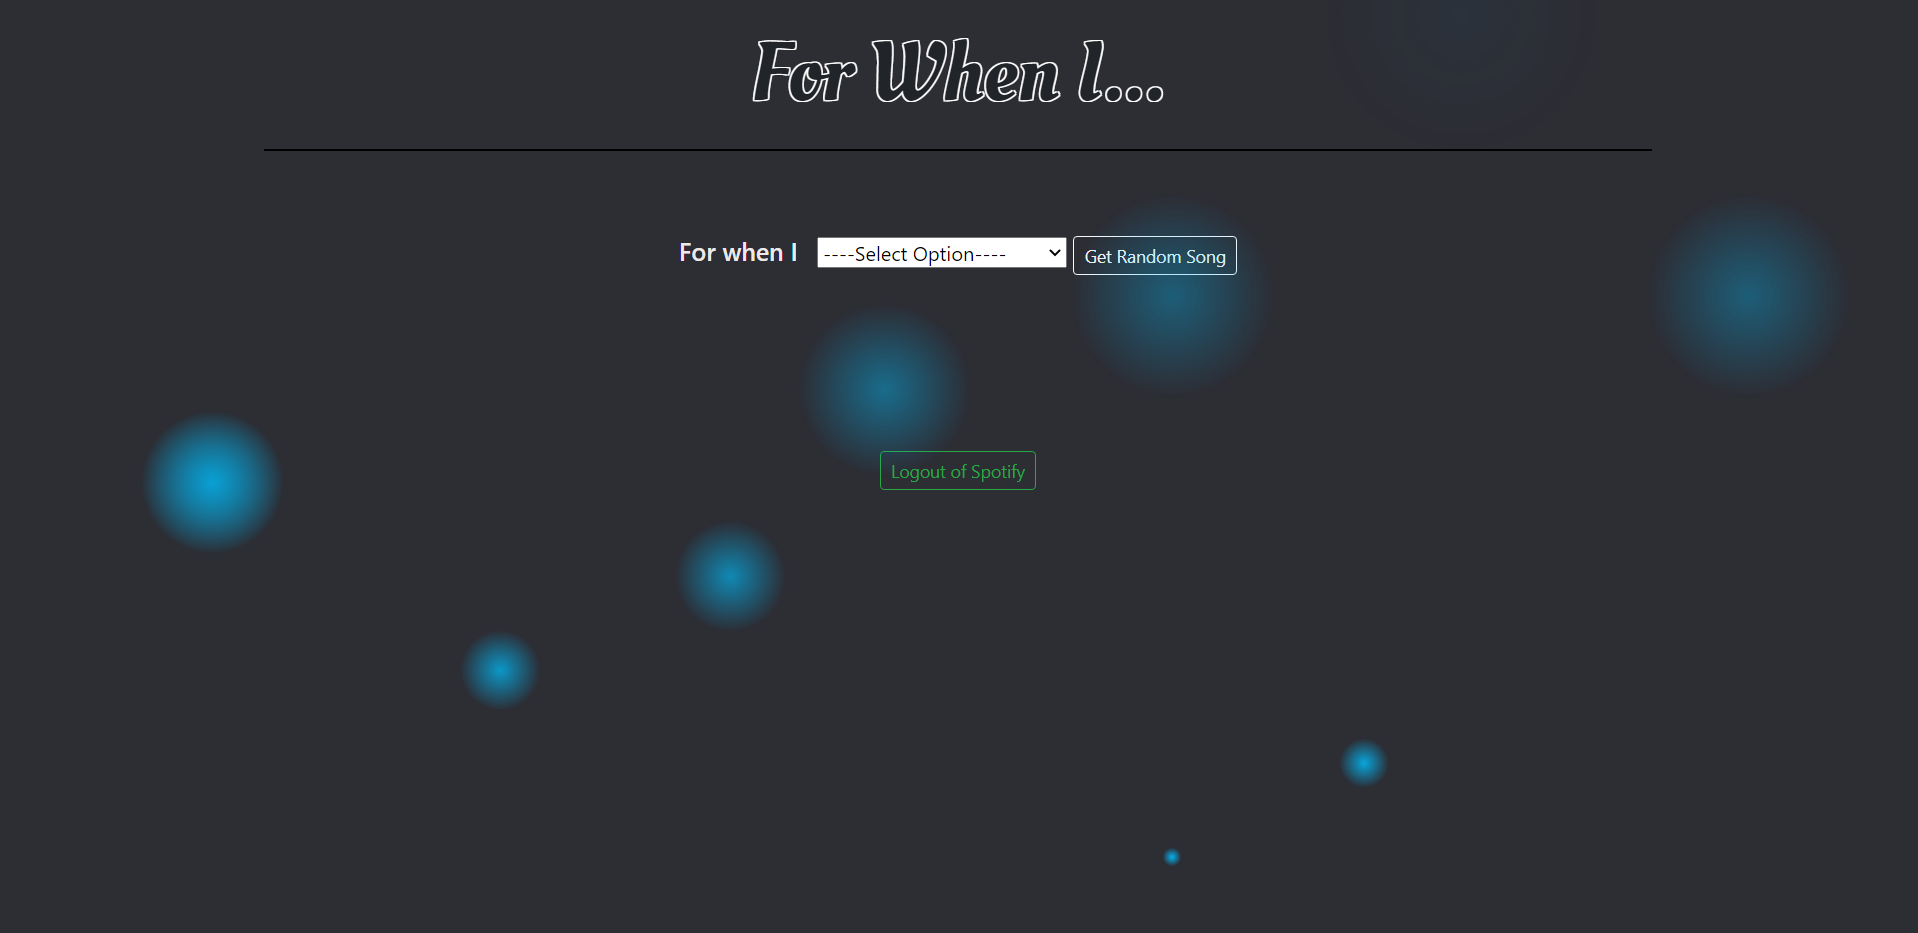
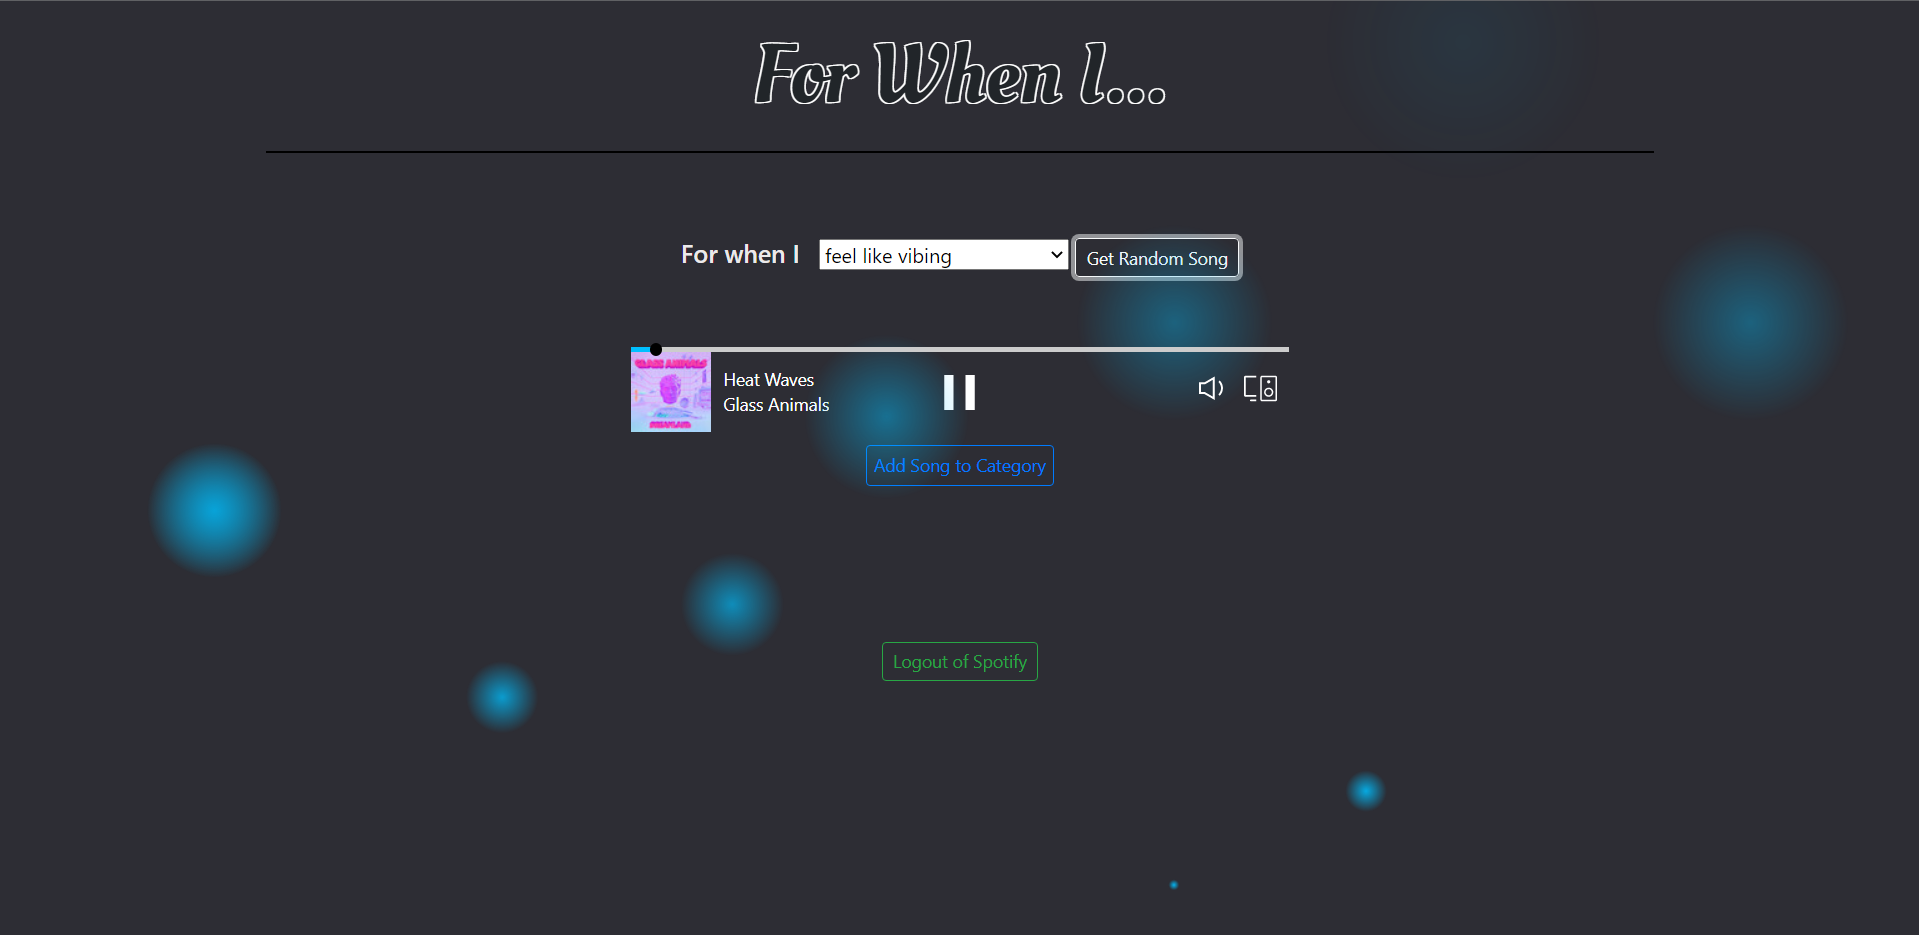
Completed Project Pages

diff --git a/messageForYou.html b/messageForYou.html
@@ -1,0 +1,47 @@
+<!DOCTYPE html>
+<html lang="en">
+<head>
+    <meta charset="UTF-8">
+    <meta http-equiv="X-UA-Compatible" content="IE=edge">
+    <meta name="viewport" content="width=device-width, initial-scale=1.0">
+    <title>Message For you</title>
+    <link rel="stylesheet" href="/css/messageForYou.css">
+    <link rel="preconnect" href="https://fonts.googleapis.com">
+    <link rel="preconnect" href="https://fonts.gstatic.com" crossorigin>
+    <link href="https://fonts.googleapis.com/css2?family=Kaushan+Script&display=swap" rel="stylesheet">
+    <link href="https://fonts.googleapis.com/css2?family=Dosis:wght@300&display=swap" rel="stylesheet">
+</head>
+<body>
+    <div class="toggle">
+        <a href="main.html">    
+            <img src="/images/pic.jpg" alt="Alex" class="pic">
+        </a>
+    </div>
+    <div class="header">
+        <h1 class="title">Message For you</h1>
+    </div>
+    <div class="video">
+        <iframe width="800" height="450" src="https://www.youtube.com/embed/HbGPTKKUH48" title="YouTube video player" frameborder="0" allow="accelerometer; autoplay; clipboard-write; encrypted-media; gyroscope; picture-in-picture" allowfullscreen></iframe>
+        <h2>Technologies Used: Python, Flask, MySQL DB</h2>
+    </div>
+    <div class="picDesc">
+        <img src="/images/4.png" alt="ForWhenI1" class="image">
+        <div class="text">
+            <p>When a user first enters "Message For you", they will be greeted with a single option to "Grab A Message".
+            </p>
+        </div>
+    </div>
+    <div class="picDesc">
+        <div class="text">
+            <p>The user is then redirected to a new page where a random message will be pulled from the MySQL database. This is done by running a query to retrieve a random message. The message will populate on the screen. The user can then select a new message or create a message.</p>
+        </div>
+        <img src="/images/5.png" alt="" class="image">
+    </div>
+    <div class="picDesc">
+        <img src="/images/6.png" alt="" class="image">
+        <div class="text">
+            <p>If a user decides to create a new message, they will be redirected to a form to create a message. Using Backend validations, the user can enter a message and either enter a name or remain anonymous by checking the checkbox. Once the user is finished up, they simply "Create" the message and their message is now entered into the datadase. </p>
+        </div>
+    </div>
+</body>
+</html>

diff --git a/forWhenI.html b/forWhenI.html
@@ -8,13 +8,20 @@
     <link rel="stylesheet" href="/css/forWhenI.css">
     <link href="https://fonts.googleapis.com/css2?family=Abel&family=Oleo+Script&family=Roboto&family=Source+Sans+Pro:wght@200&display=swap" rel="stylesheet">
     <link rel="preconnect" href="https://fonts.googleapis.com">
+    <link href="https://fonts.googleapis.com/css2?family=Dosis:wght@300&display=swap" rel="stylesheet">
 </head>
 <body>
+    <div class="toggle">
+        <a href="main.html">    
+            <img src="/images/pic.jpg" alt="Alex" class="pic">
+        </a>
+    </div>
     <div class="header">
         <h1 class="title">For When I...</h1>
     </div>
     <div class="video">
         <iframe width="800" height="450" src="https://www.youtube.com/embed/krVnG-XKvqM" title="YouTube video player" frameborder="0" allow="accelerometer; autoplay; clipboard-write; encrypted-media; gyroscope; picture-in-picture" allowfullscreen></iframe>
+        <h2>Technologies Used: MongoDB, Express.js, React.js, Node.js, Spotify API</h2>
     </div>
     <div class="picDesc">
         <img src="/images/1.png" alt="ForWhenI1" class="image">
@@ -25,9 +32,15 @@
     </div>
     <div class="picDesc">
         <div class="text">
-            <p>testing</p>
+            <p>Once the user has logged in to their Spotify Account, they are able to select a category that was created and stored with MongoDB. When a category is selected, the user can randomly have a song selected that is stored within the database with that selected category. The song is  played with a Spotify Player NPM. The User will then have the option to add a song to a category of their choice.</p>
         </div>
         <img src="/images/2.png" alt="" class="image">
+    </div>
+    <div class="picDesc">
+        <img src="/images/3.png" alt="" class="image">
+        <div class="text">
+            <p>A user can look up either a Song or a specific Artist and their top 10 songs will populate using the Spotify API. When the user has found the song they want to add, they simply select the "Add" button and the Spotify Track ID will automatically populate on the right hand side of the page. From there, all the user needs to do is select the category they would like to add the song to and hit "Add Song". The user will be returned to the main page and free to get a new random song.</p>
+        </div>
     </div>
 </body>
 </html>

diff --git a/css/messageForYou.css b/css/messageForYou.css
@@ -4,9 +4,22 @@
     box-sizing: border-box;
 }
 body {
-    background-color: #2d2d34;
+    background-color: #47bffe;
 }
-
+.toggle {
+    position: absolute;
+    height: 30px;
+    width: 30px;
+    top: 20px;
+    left: 20px;
+}
+.pic {
+    height: 100px;
+    width: 100px;
+    border: 5px solid white;
+    border-radius: 50%;
+    overflow: hidden;
+}
 .header {
     display: flex;
     justify-content: center;
@@ -16,7 +29,7 @@ body {
     padding:20px 0px;
     border-bottom:2px solid black;
     width: 40%;
-    font-family: 'Oleo Script', cursive;
+    font-family: 'Kaushan Script', cursive;
     font-size: 70pt;
     text-shadow: -1px -1px 0 rgb(255, 255, 255), 1px -1px 0 rgb(255, 255, 255), -1px 1px 0 rgb(255, 255, 255), 1px 1px 0 rgb(255, 255, 255);
 }
@@ -28,12 +41,12 @@ body {
     padding:20px 0;
 }
 .video h2 {
-    color: rgba(255, 255, 255, 0.862);
+    color: rgba(0, 0, 0, 0.862);
     padding: 20px 0 0;
     font-family: 'Dosis', sans-serif;
 }
 .picDesc {
-    background-color: #171717;
+    background-color: #fbedd2;
     padding: 20px;
     margin: 10px 0;
     display: flex;
@@ -58,18 +71,4 @@ body {
     align-items: center;
     justify-content: center;
     background-color: rgba(255, 255, 255, 0.585);
-}
-.toggle {
-    position: absolute;
-    height: 30px;
-    width: 30px;
-    top: 20px;
-    left: 20px;
-}
-.pic {
-    height: 100px;
-    width: 100px;
-    border: 5px solid white;
-    border-radius: 50%;
-    overflow: hidden;
 }

diff --git a/main.html b/main.html
@@ -81,7 +81,7 @@
             </div>
             <div class="messageForYou">
                 <h1 class="projTitle">Message For You</h1>
-                <a href="">
+                <a href="messageForYou.html">
                     <img src="/images/messageforyou.png" alt="messageForYou" class="projImg">
                 </a>
                 <p class="projDesc">

diff --git a/css/about.css b/css/about.css
@@ -1,3 +1,7 @@
+html {
+    scroll-behavior: smooth;
+}
+
 .name {
     text-align: center;
     font-size: 6em;
